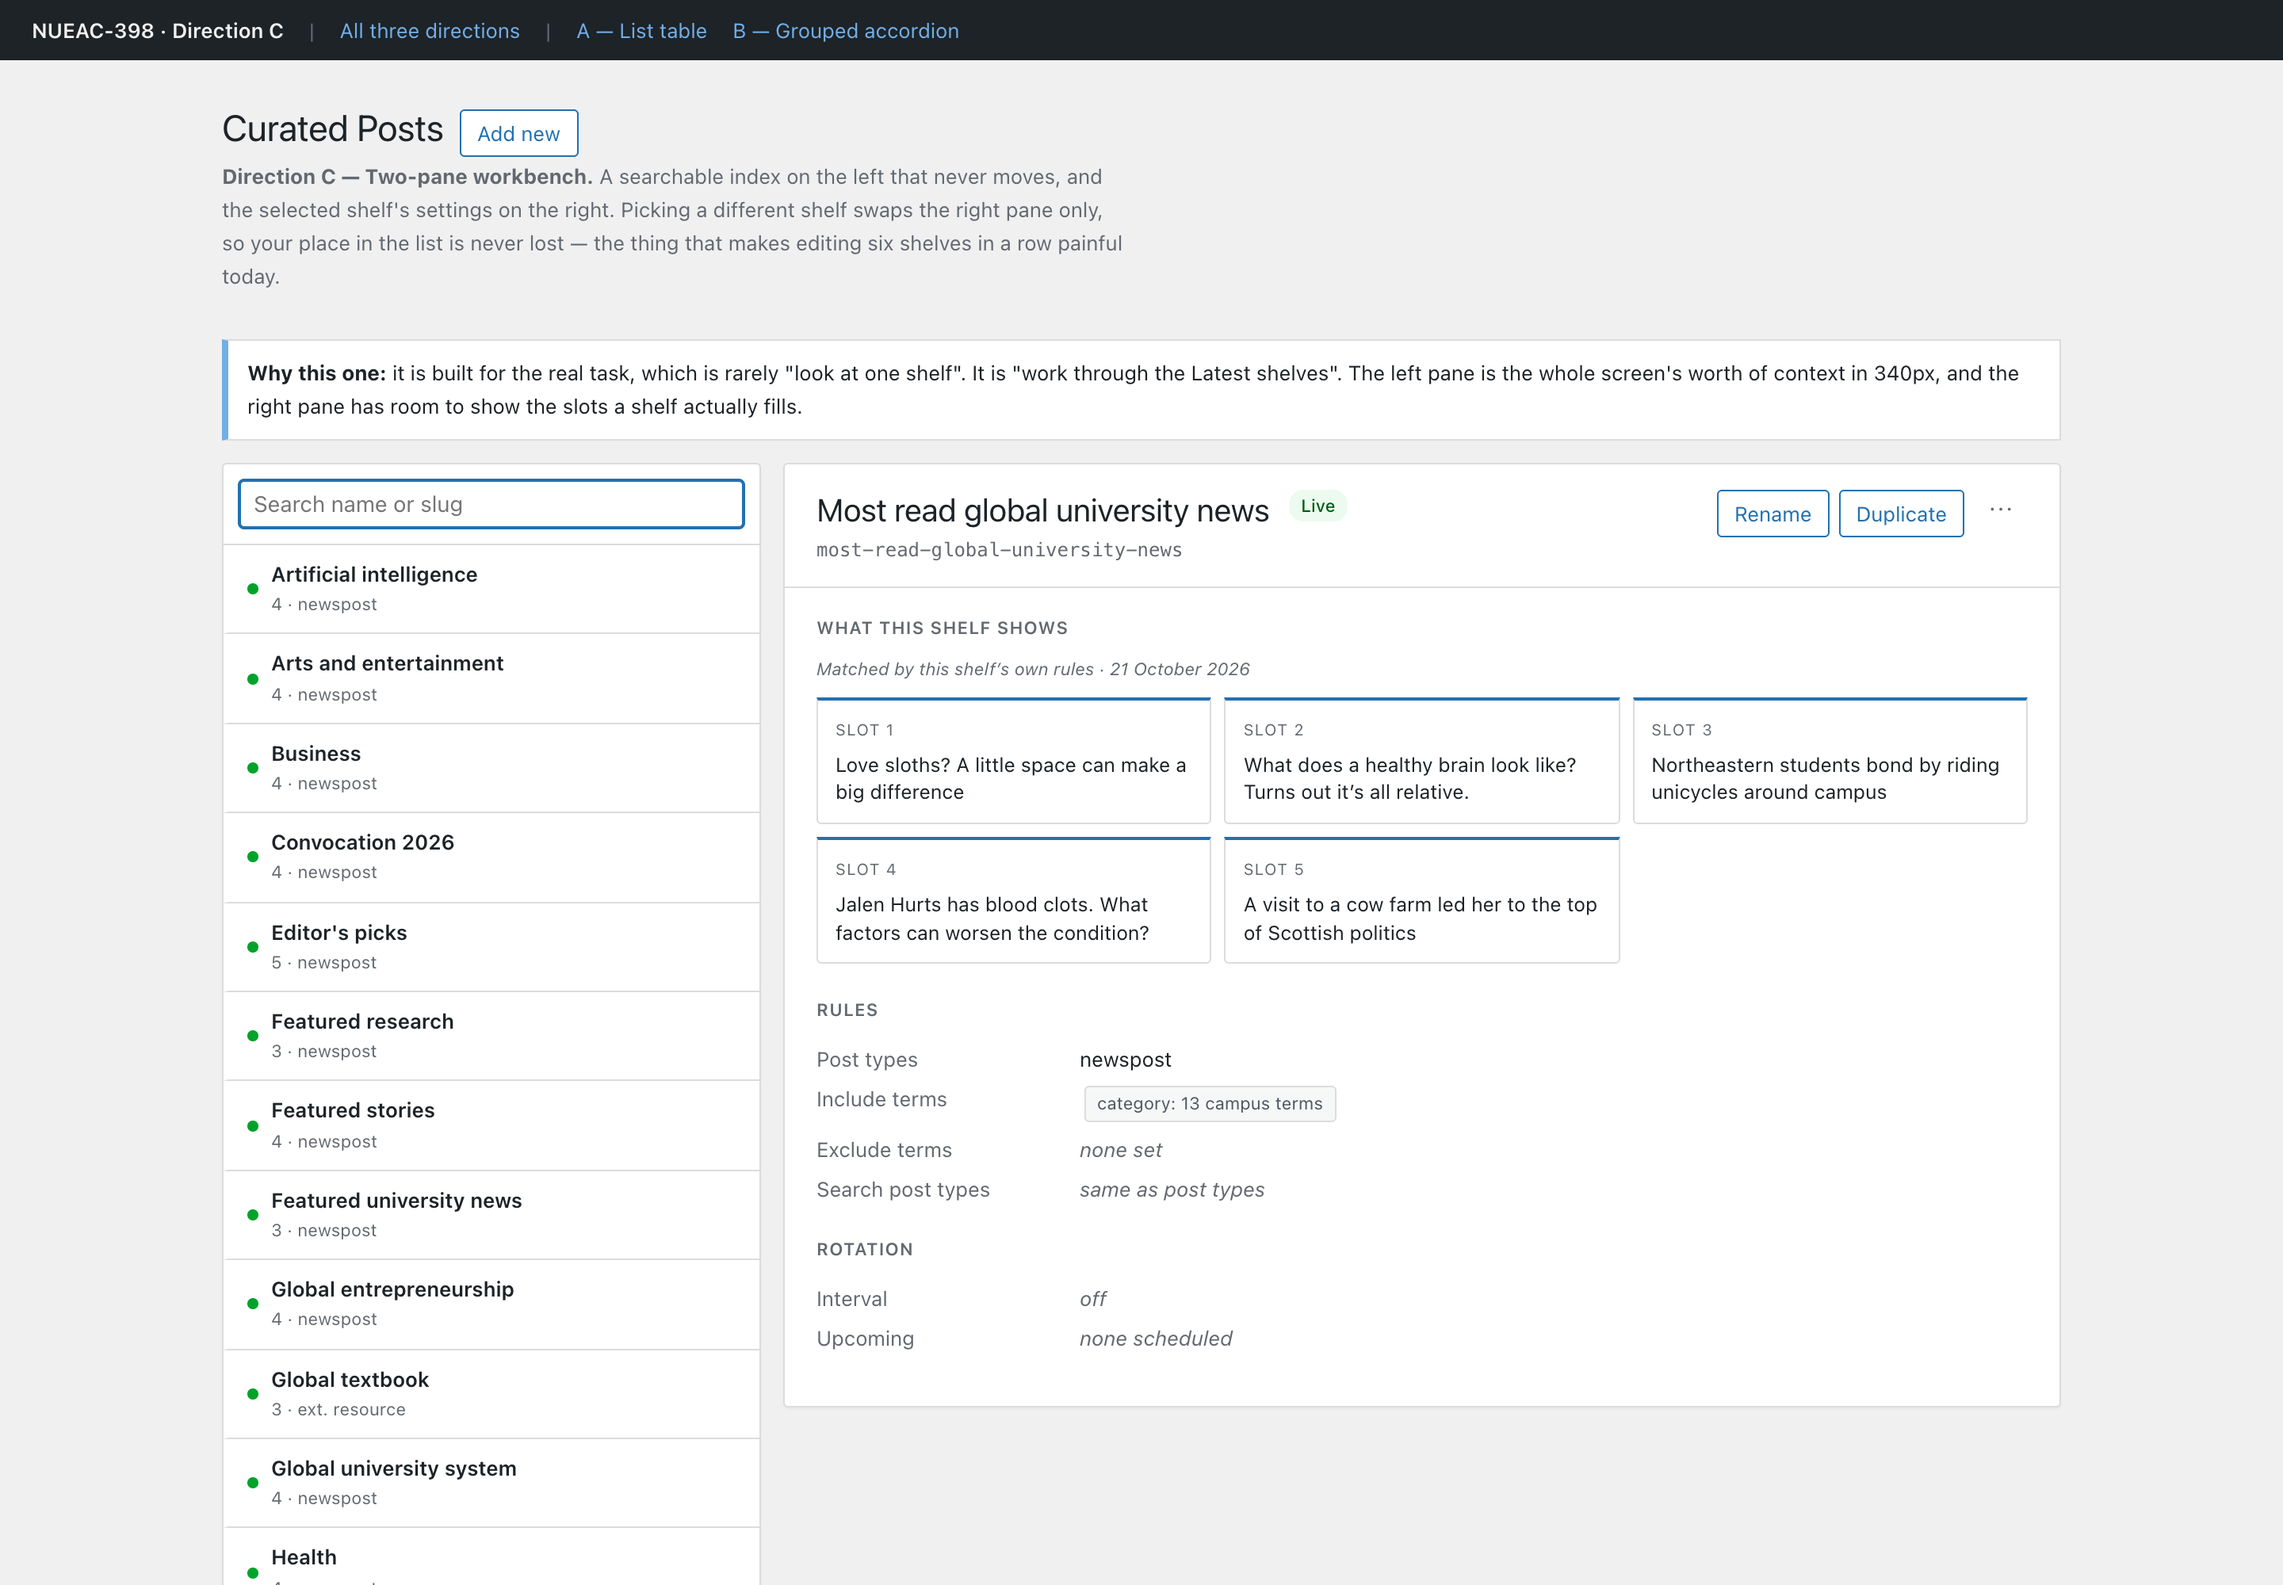
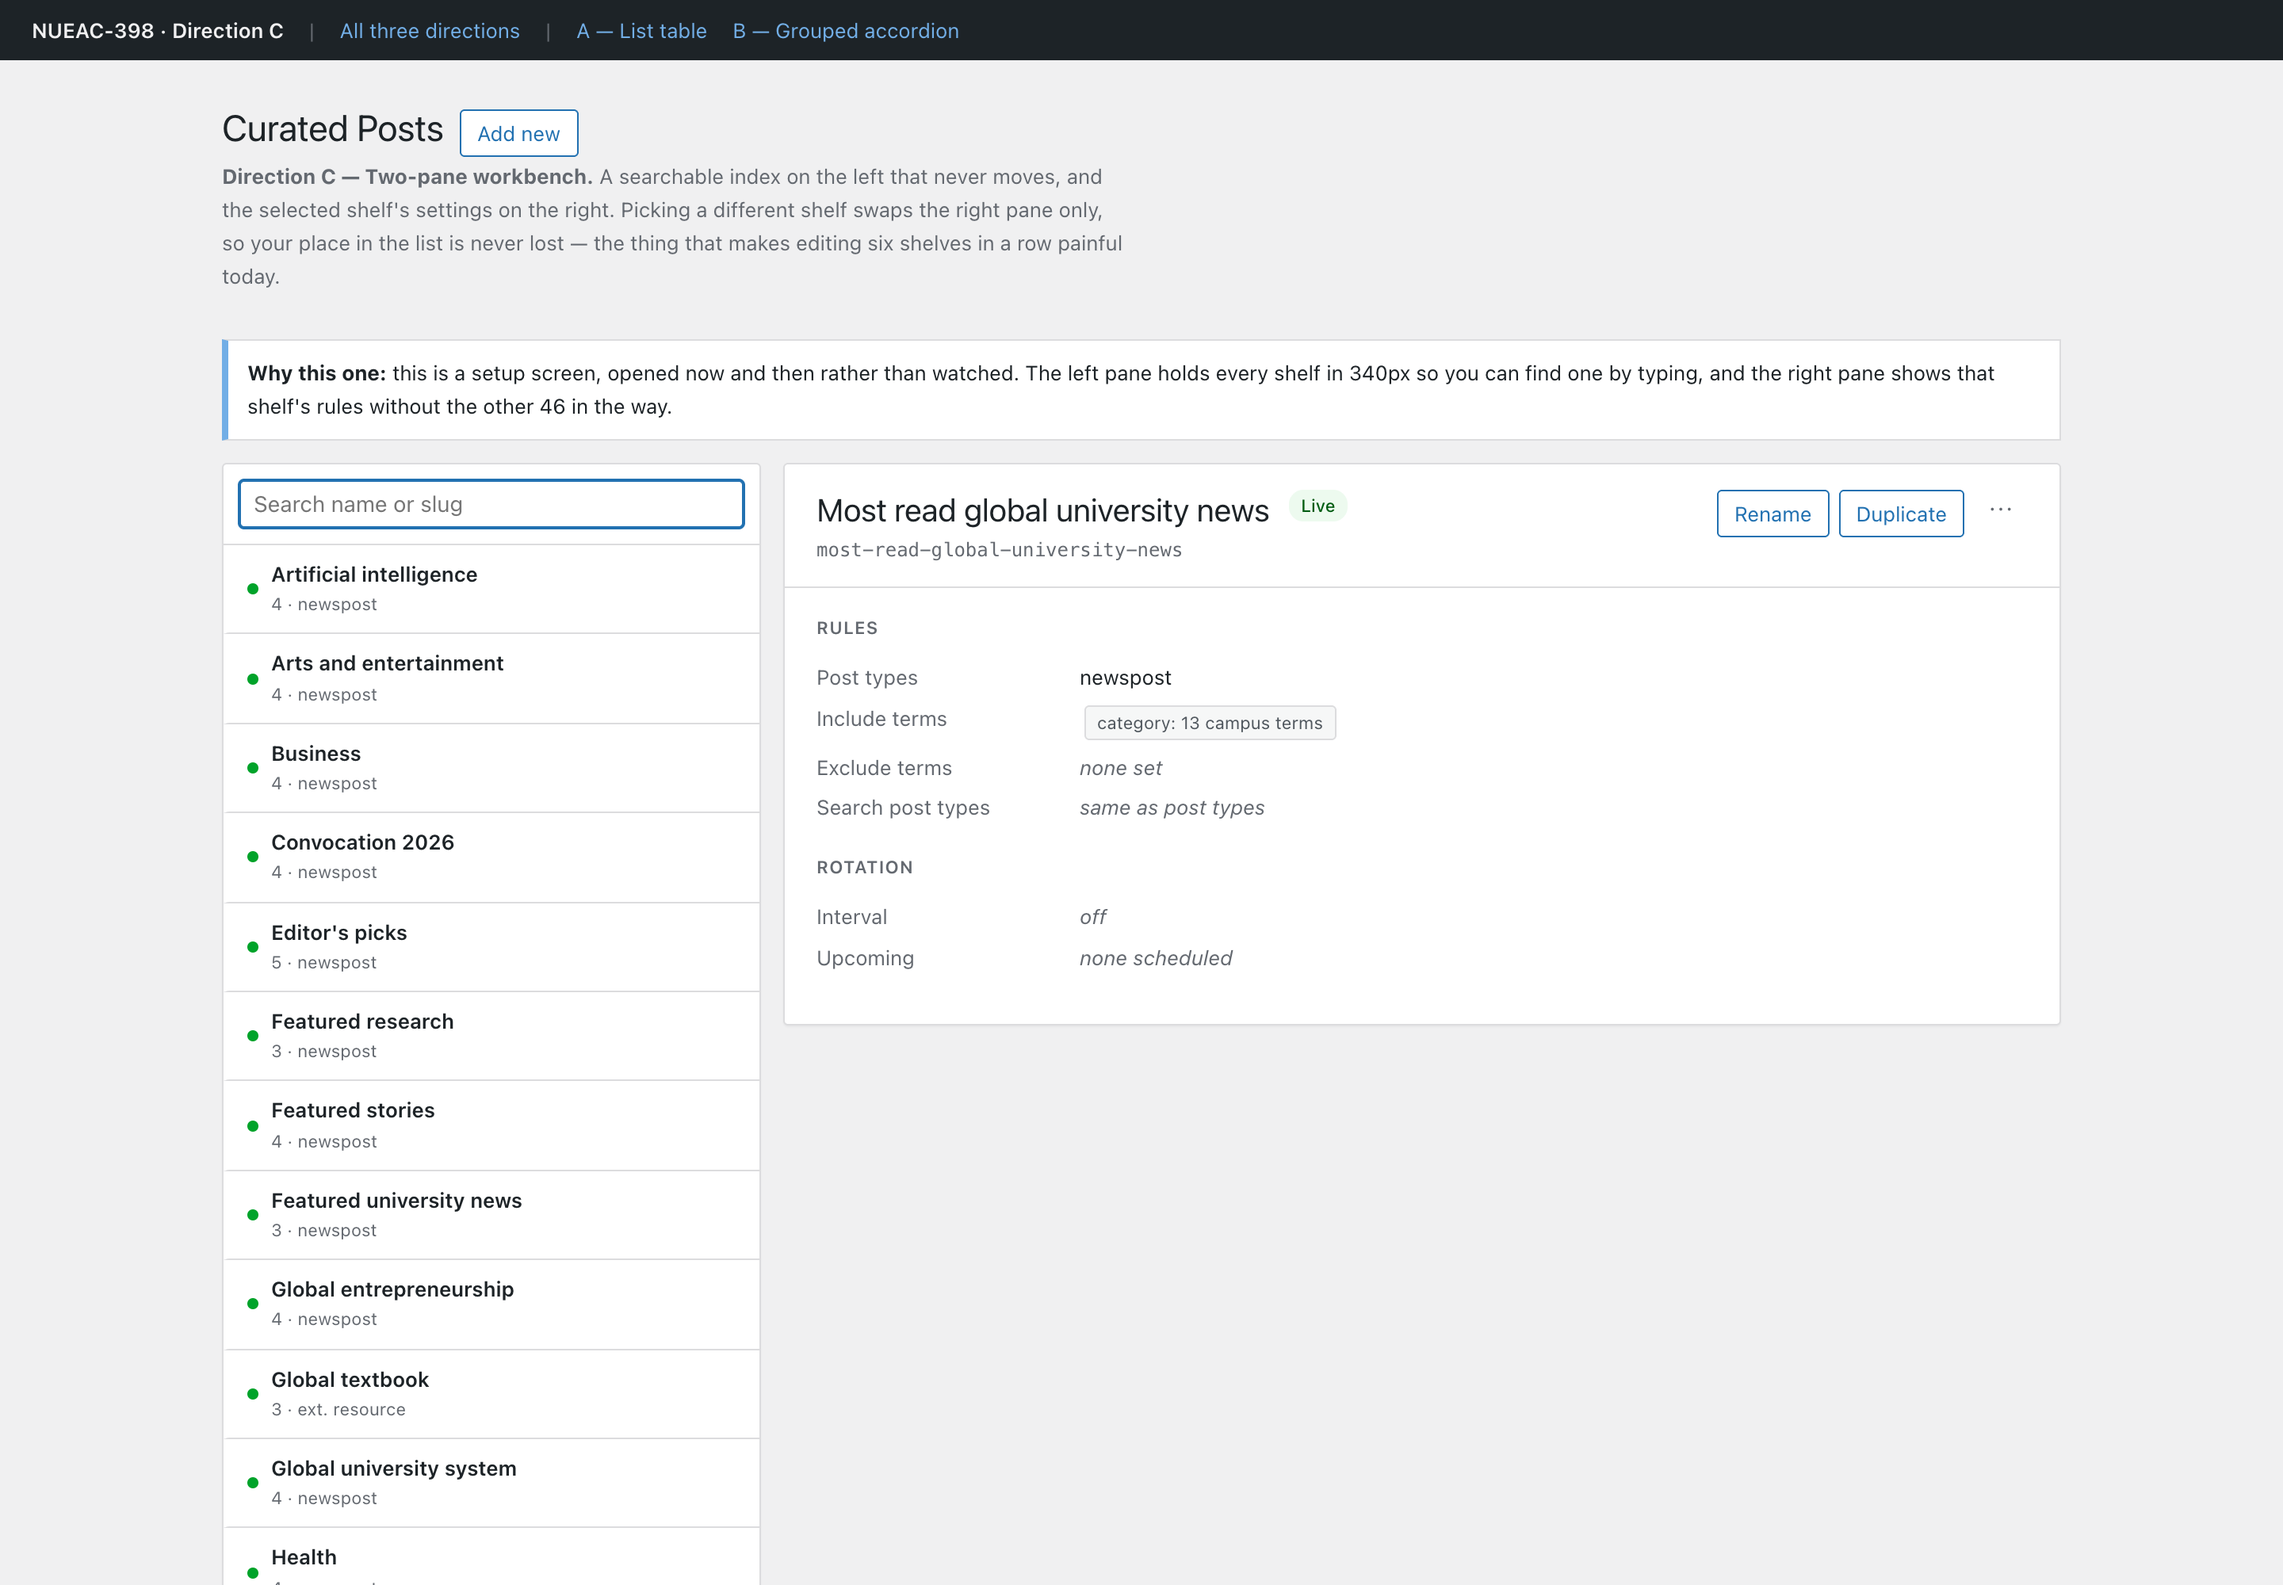
Remove the live slots: this is a setup screen, not a monitor
Review feedback: the page is opened now and then to set a shelf up, not
watched to see what is live, so the slot boxes earn nothing.

Gone, along with the headlines data and the styles behind them. The right
pane now holds the rules alone and the standfirst says what the screen is
actually for.

Recorded in the ticket log that this takes away the one thing C had over
A and B, so the comparison moves rather than the screen just getting
smaller.

diff --git a/03-two-pane.html b/03-two-pane.html
@@ -102,61 +102,6 @@
 .kv dd { margin: 0; }
 .kv .unset { color: var(--wp-text-muted); font-style: italic; }
 
-.slots {
-  display: grid;
-  grid-template-columns: repeat(auto-fill, minmax(186px, 1fr));
-  gap: 8px;
-}
-.slot {
-  border-radius: 3px;
-  padding: 9px 11px 10px;
-  min-height: 74px;
-  display: flex;
-  flex-direction: column;
-  gap: 5px;
-}
-.slot-n {
-  font-size: 10px;
-  letter-spacing: .06em;
-  text-transform: uppercase;
-  color: var(--wp-text-muted);
-}
-.slot-filled {
-  background: var(--wp-surface);
-  border: 1px solid var(--wp-border-light);
-  border-top: 2px solid var(--wp-blue);
-  border-radius: 0 0 3px 3px;
-}
-.slot-filled .slot-h {
-  font-size: 12.5px;
-  line-height: 1.4;
-  color: var(--wp-text);
-}
-.slot-uncaptured {
-  background: var(--wp-surface-alt);
-  border: 1px dashed var(--wp-border);
-  border-top: 2px dashed var(--wp-border);
-  border-radius: 0 0 3px 3px;
-}
-.slot-uncaptured .slot-h {
-  font-size: 12px;
-  color: var(--wp-text-muted);
-  font-style: italic;
-}
-.asof {
-  font-size: 11px;
-  color: var(--wp-text-muted);
-  font-style: italic;
-  margin: 0 0 8px;
-}
-.asof-warn {
-  font-style: normal;
-  color: var(--wp-amber);
-  background: var(--wp-amber-bg);
-  border-left: 3px solid var(--wp-amber);
-  padding: 5px 9px;
-  display: inline-block;
-}
 
 .empty-detail {
   padding: 70px 24px;
@@ -192,10 +137,9 @@
   <hr class="wp-header-end">
 
   <div class="notice notice-info">
-    <p><strong>Why this one:</strong> it is built for the real task, which is rarely
-    "look at one shelf". It is "work through the Latest shelves". The left pane is the
-    whole screen's worth of context in 340px, and the right pane has room to show the
-    slots a shelf actually fills.</p>
+    <p><strong>Why this one:</strong> this is a setup screen, opened now and then rather
+    than watched. The left pane holds every shelf in 340px so you can find one by typing,
+    and the right pane shows that shelf's rules without the other 46 in the way.</p>
   </div>
 
   <div class="panes">
@@ -215,7 +159,6 @@
 
 </div>
 
-<script src="assets/headlines.js"></script>
 <script src="assets/data.js"></script>
 <script>
 (function () {
@@ -266,38 +209,6 @@
       return;
     }
 
-    var heads = (window.HEADLINES && HEADLINES[d.s]) || [];
-    var slots = "", onRail = 0, byRule = 0;
-    for (var i = 0; i < d.stories; i++) {
-      var h = heads[i];
-      if (h) {
-        if (h.src === "rail") onRail++; else byRule++;
-        slots += '<div class="slot slot-filled">' +
-          '<span class="slot-n">Slot ' + (i + 1) + "</span>" +
-          '<span class="slot-h">' + CP.esc(h.t) + "</span></div>";
-      } else {
-        slots += '<div class="slot slot-uncaptured">' +
-          '<span class="slot-n">Slot ' + (i + 1) + "</span>" +
-          '<span class="slot-h">not captured</span></div>';
-      }
-    }
-    var when = CP.esc(window.HEADLINES_CAPTURED || "today");
-    var asof;
-    if (!heads.length) {
-      asof = '<p class="asof asof-warn">Prototype data: no headlines for this shelf. ' +
-        "It is not empty on the site.</p>";
-    } else if (heads.length < d.stories) {
-      asof = '<p class="asof asof-warn">Prototype data: ' + heads.length + " of " + d.stories +
-        " slots filled. The rest were not read, not empty.</p>";
-    } else if (byRule && onRail) {
-      asof = '<p class="asof">' + onRail + " read off the live page, " + byRule +
-        " matched by this shelf's rules \u00b7 " + when + "</p>";
-    } else if (byRule) {
-      asof = '<p class="asof">Matched by this shelf\u2019s own rules \u00b7 ' + when + "</p>";
-    } else {
-      asof = '<p class="asof">Read off the live page \u00b7 ' + when + "</p>";
-    }
-
     var html =
       '<div class="detail-head">' +
         "<div><h2>" + CP.esc(d.n) + "</h2>" +
@@ -320,7 +231,6 @@
     }
 
     html += '<div class="detail-body">' +
-      '<div class="sect"><h3>What this shelf shows</h3>' + asof + '<div class="slots">' + slots + "</div></div>" +
       '<div class="sect"><h3>Rules</h3><dl class="kv">' +
         "<dt>Post types</dt><dd>" + CP.esc(d.types) + "</dd>" +
         "<dt>Include terms</dt><dd>" + (d.inc.length ? CP.terms(d.inc, "inc") : '<span class="unset">none set</span>') + "</dd>" +

diff --git a/TICKETS.md b/TICKETS.md
@@ -53,3 +53,12 @@ drops silently into Other; add a family and someone edits code.
 
 The index is now one flat list sorted A to Z. No rule, nothing to maintain, and shelves
 that share a name prefix still sit together because sorting puts them there.
+
+**Live slots removed.** Xris: the page is for setting up curated posts now and then, not
+for watching what is live, so the slot boxes are not needed.
+
+Taken out. Worth recording that this removes the one thing Direction C had that A and B
+did not, which changes the comparison rather than just trimming the screen. With the
+slots gone the right pane holds the rules alone, and the case for two panes over a plain
+list table is narrower: it is now about finding a shelf and keeping your place while you
+edit, not about seeing what a shelf is publishing.
